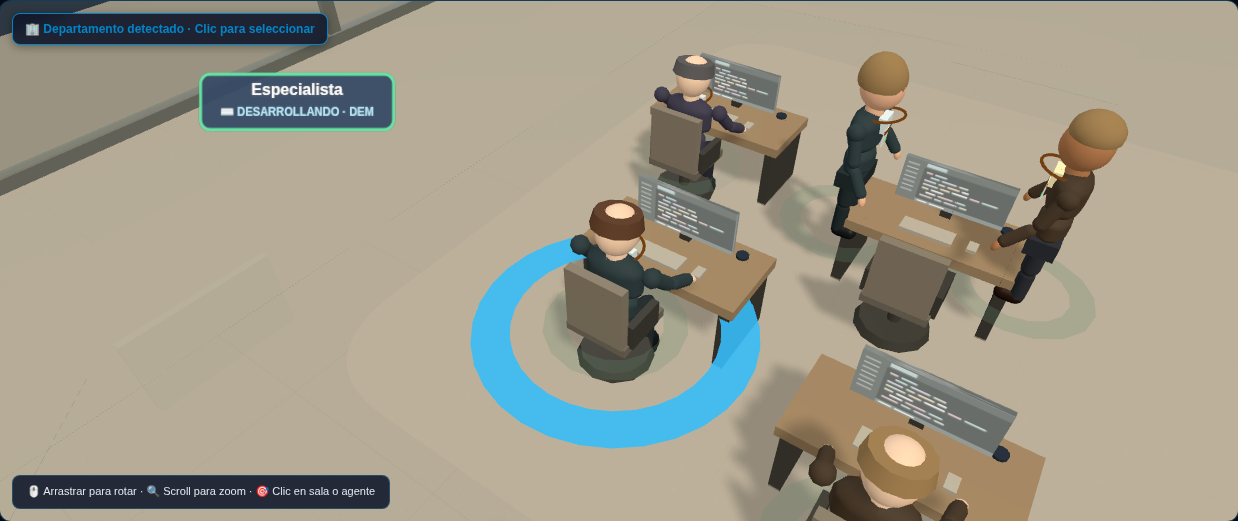
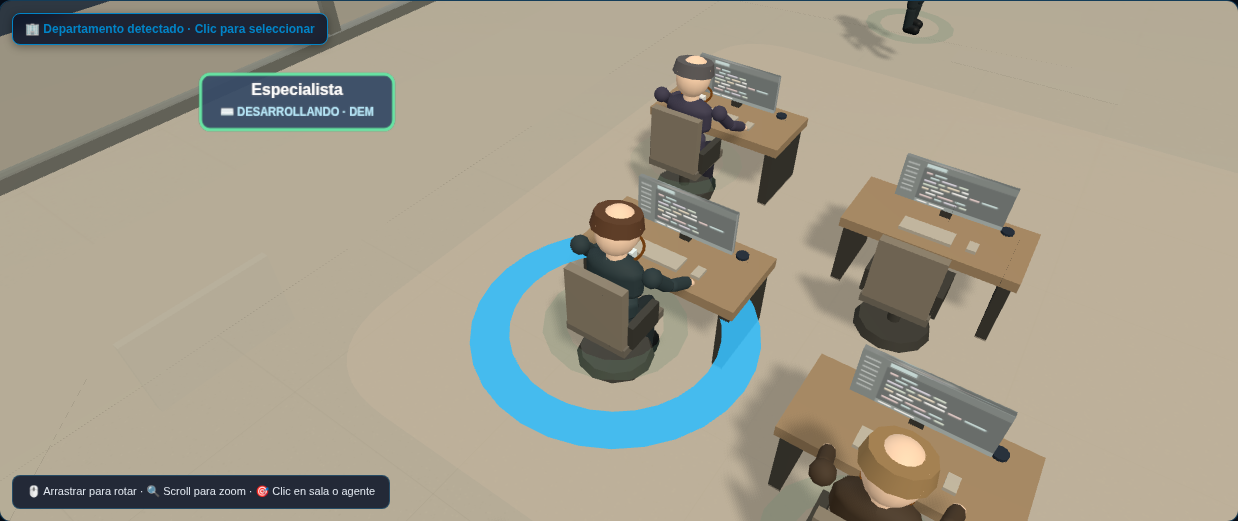
fix(office): keep idle agents moving with coffee

diff --git a/frontend/app/src/features/office/engine/officeLifeEngine.ts b/frontend/app/src/features/office/engine/officeLifeEngine.ts
@@ -363,59 +363,31 @@ export function projectAgentOperationalActivity(
     };
   }
 
-  // 6. Demo-only simulated conversation for idle pairs in the same unit or executive coordination
-  if (isDemo && agent.status === 'IDLE' && agent.heartbeatStatus === 'HEALTHY') {
-    const idlePeers = allAgents.filter(
-      (other) =>
-        other.id !== agent.id &&
-        (other.isSyntheticDemo || isDemo) &&
-        other.status === 'IDLE' &&
-        other.heartbeatStatus === 'HEALTHY' &&
-        !other.currentAssignments.some((a) => isAssignmentLeaseValid(a, nowMs).valid)
-    );
-    if (idlePeers.length > 0) {
-      const partner = idlePeers[0];
-      return {
-        agentId: agent.id,
-        kind: 'CONVERSING',
-        provenance: 'DEMO_SIMULATION',
-        label: `Conversando con ${partner.name.split(' ')[0]} (Simulación DEMO)`,
-        shortBadge: '💬 DEMO CHAT',
-        detail: `Interacción simulada en modo DEMO con ${partner.name}; no representa una conversación real del backend.`,
-        isLeaseExpired: false,
-        activeTaskId: null,
-        activeProjectId: null,
-        conversationPartnerId: partner.id,
-      };
-    }
-  }
-
-  // 7. Ambient Walking Animation (explicitly identified as ambient animation, NEVER business evidence)
+  // 6. Idle, healthy agents take an ambient coffee walk rather than standing
+  // at their chair. This remains purely visual: it creates no task, event, or
+  // business evidence, and reduced-motion callers can disable it.
   if (
     ambientWalkEnabled &&
     agent.status === 'IDLE' &&
     agent.heartbeatStatus === 'HEALTHY'
   ) {
-    // Deterministic cycle based on stable hash and time window so idle connected agents occasionally stretch/walk
-    const cycleSlot = Math.floor(nowMs / 20_000 + (stableAgentHash(agent.id) % 5)) % 3;
-    if (cycleSlot === 1) {
-      return {
-        agentId: agent.id,
-        kind: 'WALKING',
-        provenance: isDemo ? 'DEMO_SIMULATION' : 'AMBIENT_ANIMATION',
-        label: 'Paseo ambiental por la oficina (Sin acción de negocio)',
-        shortBadge: '🚶 AMBIENTAL',
-        detail:
-          'Animación ambiental de desplazamiento visual para agente disponible; no representa una tarea ni evento empresarial.',
-        isLeaseExpired: false,
-        activeTaskId: null,
-        activeProjectId: null,
-        conversationPartnerId: null,
-      };
-    }
+    return {
+      agentId: agent.id,
+      kind: 'WALKING',
+      provenance: isDemo ? 'DEMO_SIMULATION' : 'AMBIENT_ANIMATION',
+      label: 'Paseo ambiental con café (Sin acción de negocio)',
+      shortBadge: '☕ PASEO AMBIENTAL',
+      detail:
+        'Desplazamiento visual con café para agente disponible; no representa una tarea ni evento empresarial.',
+      isLeaseExpired: false,
+      activeTaskId: null,
+      activeProjectId: null,
+      conversationPartnerId: null,
+    };
   }
 
-  // 8. Default: Seated & Idle at Assigned Workstation
+  // 7. Reduced motion or other explicitly disabled ambient animation:
+  // remain seated at the assigned workstation.
   return {
     agentId: agent.id,
     kind: 'IDLE_DESK',
@@ -592,8 +564,14 @@ export function planOfficeLifePlacements(
         activity.kind === 'TYPING_DOCS' ||
         activity.kind === 'IDLE_DESK';
 
-      // Build obstacle-free corridor waypoints (Chair -> Central Aisle -> Room Door -> Atrium Ring)
-      const aisleWaypoint = { x: room.x, z: slot.chairWorldZ };
+      // Leave the chair footprint before following the neighborhood aisle.
+      // Starting a WALKING loop at chairWorldX/Z made idle avatars stand on
+      // top of their own seats for the first segment of every ambient route.
+      const chairExitWaypoint = {
+        x: slot.chairWorldX,
+        z: slot.chairWorldZ + 0.75,
+      };
+      const aisleWaypoint = { x: room.x, z: chairExitWaypoint.z };
       const doorWaypoint = layout.corridorEntryWorld;
       const walkSide = stableAgentHash(agent.id) % 2 === 0 ? -1 : 1;
       const neighborhoodWaypoint = {
@@ -602,7 +580,7 @@ export function planOfficeLifePlacements(
       };
 
       const waypoints = [
-        { x: slot.chairWorldX, z: slot.chairWorldZ },
+        chairExitWaypoint,
         aisleWaypoint,
         doorWaypoint,
         neighborhoodWaypoint,

diff --git a/frontend/app/src/test/office-game-hud.test.tsx b/frontend/app/src/test/office-game-hud.test.tsx
@@ -585,6 +585,36 @@ describe('Video Game Spatial HUD & 3D Office Prioritization', () => {
     expect(projectedIdleAudit.kind).toBe('IDLE_DESK');
     expect(projectedIdleAudit.provenance).toBe('LIVE_VERIFIED_EVIDENCE');
 
+    // Healthy idle agents use an explicitly ambient coffee walk by default;
+    // it must not create task or project evidence in LIVE.
+    const ambientIdleAudit = projectAgentOperationalActivity(
+      idleAuditAgent,
+      [idleAuditAgent],
+      { isDemo: false, nowMs }
+    );
+    expect(ambientIdleAudit.kind).toBe('WALKING');
+    expect(ambientIdleAudit.provenance).toBe('AMBIENT_ANIMATION');
+    expect(ambientIdleAudit.activeTaskId).toBeNull();
+    expect(ambientIdleAudit.activeProjectId).toBeNull();
+    expect(ambientIdleAudit.shortBadge).toContain('PASEO');
+
+    const demoIdleAudit = projectAgentOperationalActivity(
+      { ...idleAuditAgent, isSyntheticDemo: true },
+      [{ ...idleAuditAgent, isSyntheticDemo: true }],
+      { isDemo: true, nowMs }
+    );
+    expect(demoIdleAudit.kind).toBe('WALKING');
+    expect(demoIdleAudit.provenance).toBe('DEMO_SIMULATION');
+
+    const ambientPlacement = planOfficeLifePlacements([idleAuditAgent], OFFICE_ROOMS, {
+      isDemo: false,
+      nowMs,
+    }).get(idleAuditAgent.id)!;
+    expect(ambientPlacement.activity.kind).toBe('WALKING');
+    expect(ambientPlacement.waypoints[0].z).toBeGreaterThan(
+      ambientPlacement.workstationSlot.chairWorldZ
+    );
+
     // 4. Sharing a projectId in LIVE without explicit coordination evidence must NOT attribute CONVERSING
     const peerA: AgentIdentity = {
       ...activeAuditAgent,
